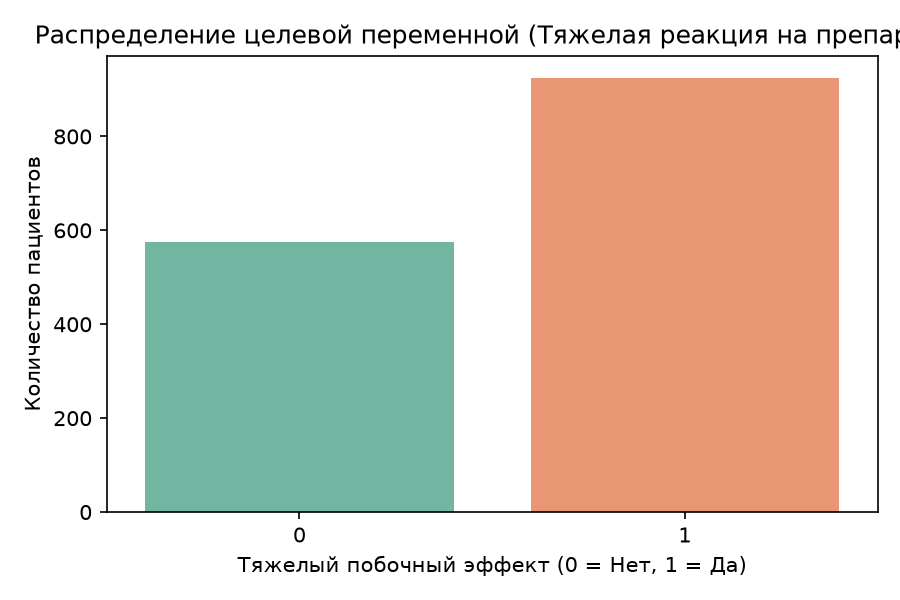
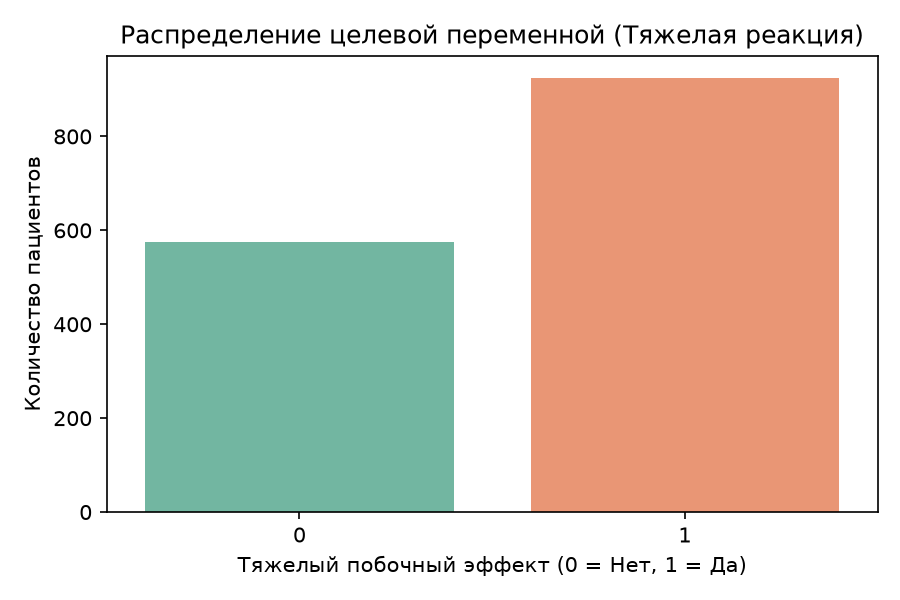
доработка кода

Changed region(s): [[0.0311, 0.03, 1.0, 0.09]]

diff --git a/Project_code_Python.py b/Project_code_Python.py
@@ -3,37 +3,43 @@ import pandas as pd
 import numpy as np
 import matplotlib.pyplot as plt
 import seaborn as sns
-from sklearn.model_selection import train_test_split
-from sklearn.model_selection import GridSearchCV
+from sklearn.model_selection import train_test_split, GridSearchCV
 from sklearn.compose import ColumnTransformer
 from sklearn.pipeline import Pipeline
 from sklearn.impute import SimpleImputer
 from sklearn.preprocessing import StandardScaler, OneHotEncoder
 from sklearn.linear_model import LogisticRegression
 from sklearn.ensemble import RandomForestClassifier
-from sklearn.metrics import accuracy_score, precision_score, recall_score, f1_score, roc_auc_score, confusion_matrix, classification_report
+from sklearn.metrics import accuracy_score, precision_score, recall_score, f1_score, roc_auc_score, confusion_matrix
+from xgboost import XGBClassifier
 
-# 1. Загрузка данных
+# === ЭТАП 1: ЗАГРУЗКА И ИССЛЕДОВАНИЕ ДАННЫХ (EDA) ===
+print("=== Этап 1: Загрузка и исследование данных ===")
 current_dir = os.path.dirname(os.path.abspath('__file__'))
 path_to_file = os.path.join(current_dir, 'adverse_drug_reactions.csv')
-print("=== Этап 2: Загрузка и исследование данных (EDA) ===")
+
+# Проверка наличия файла (для локального запуска)
+if not os.path.exists(path_to_file):
+    raise FileNotFoundError(f"Файл {path_to_file} не найден. Пожалуйста, поместите его в рабочую директорию.")
+
 df = pd.read_csv(path_to_file)
 print(f"Размерность датасета: {df.shape}")
 print("\nИнформация о пропусках в данных:")
 print(df.isnull().sum())
 
-# Быстрая визуализация и сохранение графиков для презентации
+# Визуализация 1: Распределение целевой переменной
 plt.figure(figsize=(6, 4))
-sns.countplot(x='severe_adr', data=df, palette='Set2')
-plt.title('Распределение целевой переменной (Тяжелая реакция на препарат)')
+sns.countplot(x='severe_adr', data=df, palette='Set2', hue='severe_adr', legend=False)
+plt.title('Распределение целевой переменной (Тяжелая реакция)')
 plt.xlabel('Тяжелый побочный эффект (0 = Нет, 1 = Да)')
 plt.ylabel('Количество пациентов')
 plt.tight_layout()
 plt.savefig('target_distribution.png', dpi=150)
 plt.show()
 
+# Визуализация 2: Влияние полипрагмазии
 plt.figure(figsize=(8, 5))
-sns.boxplot(x='severe_adr', y='polypharmacy_count', data=df, palette='Set3')
+sns.boxplot(x='severe_adr', y='polypharmacy_count', data=df, palette='Set3', hue='severe_adr', legend=False)
 plt.title('Влияние полипрагмазии на тяжесть побочных эффектов')
 plt.xlabel('Тяжелый побочный эффект')
 plt.ylabel('Количество одновременно принимаемых лекарств')
@@ -41,27 +47,26 @@ plt.tight_layout()
 plt.savefig('polypharmacy_impact.png', dpi=150)
 plt.show()
 
-# 2. Выделение признаков и целевой переменной
+# === ЭТАП 2: РАЗДЕЛЕНИЕ ДАННЫХ И ПРЕДОБРАБОТКА ===
 X = df.drop(columns=['patient_id', 'severe_adr'])
 y = df['severe_adr']
 
-# Разделение признаков по типам
 numeric_features = ['age', 'dosage_mg', 'polypharmacy_count']
 categorical_features = ['gender', 'drug_class', 'blood_pressure_status']
 
-# Разделение на обучающую и тестовую выборки (train/test split)
+# Разделение на train/test с сохранением пропорций классов (stratify)
 X_train, X_test, y_train, y_test = train_test_split(X, y, test_size=0.2, random_state=42, stratify=y)
-print(f"Размер обучающей выборки: {X_train.shape[0]}, тестовой: {X_test.shape[0]}")
+print(f"\nРазмер обучающей выборки: {X_train.shape[0]}, тестовой: {X_test.shape[0]}")
 
-# 3. Создание пайплайнов предобработки (Preprocessing Pipelines)
+# Пайплайны трансформации данных
 numeric_transformer = Pipeline(steps=[
-    ('imputer', SimpleImputer(strategy='median')), # Заполнение пропусков медианой
-    ('scaler', StandardScaler())                  # Стандартизация
+    ('imputer', SimpleImputer(strategy='median')), 
+    ('scaler', StandardScaler())                  
 ])
 
 categorical_transformer = Pipeline(steps=[
-    ('imputer', SimpleImputer(strategy='most_frequent')), # Заполнение пропусков модой
-    ('encoder', OneHotEncoder(drop='first', handle_unknown='ignore')) # OHE-кодирование
+    ('imputer', SimpleImputer(strategy='most_frequent')), 
+    ('encoder', OneHotEncoder(drop='first', handle_unknown='ignore')) 
 ])
 
 preprocessor = ColumnTransformer(
@@ -70,74 +75,93 @@ preprocessor = ColumnTransformer(
         ('cat', categorical_transformer, categorical_features)
     ])
 
-# 4. Этап 3: Обучение моделей
+# === ЭТАП 3: ОБУЧЕНИЕ МОДЕЛЕЙ И ПОДБОР ПАРАМЕТРОВ ===
+print("\n=== Этап 3: Ообучение моделей ===")
 
 # Модель 1: Логистическая регрессия (Baseline)
+print("Обучение Logistic Regression...")
 log_reg_pipeline = Pipeline(steps=[
     ('preprocessor', preprocessor),
     ('classifier', LogisticRegression(random_state=42, max_iter=1000))
 ])
 log_reg_pipeline.fit(X_train, y_train)
-y_pred_lr = log_reg_pipeline.predict(X_test)
-y_prob_lr = log_reg_pipeline.predict_proba(X_test)[:, 1]
 
-# Модель 2: Случайный лес (Random Forest) с подбором гиперпараметров через GridSearch
+# Модель 2: Случайный лес (Random Forest) + GridSearchCV
+print("Запуск кросс-валидации для Random Forest...")
 rf_pipeline = Pipeline(steps=[
     ('preprocessor', preprocessor),
     ('classifier', RandomForestClassifier(random_state=42))
 ])
-
 param_grid_rf = {
     'classifier__n_estimators': [50, 100, 200],
     'classifier__max_depth': [5, 10, None],
     'classifier__min_samples_split': [2, 5]
 }
-
-print("Запуск кросс-валидации и оптимизации гиперпараметров для Random Forest...")
 grid_search_rf = GridSearchCV(rf_pipeline, param_grid_rf, cv=5, scoring='f1', n_jobs=-1)
 grid_search_rf.fit(X_train, y_train)
 best_rf_model = grid_search_rf.best_estimator_
 
-y_pred_rf = best_rf_model.predict(X_test)
-y_prob_rf = best_rf_model.predict_proba(X_test)[:, 1]
+# Модель 3: Градиентный бустинг (XGBoost) + GridSearchCV
+print("Запуск кросс-валидации для XGBoost...")
+xgb_pipeline = Pipeline(steps=[
+    ('preprocessor', preprocessor),
+    ('classifier', XGBClassifier(random_state=42, eval_metric='logloss'))
+])
+param_grid_xgb = {
+    'classifier__n_estimators': [50, 100, 200],
+    'classifier__max_depth': [3, 5, 7],
+    'classifier__learning_rate': [0.01, 0.1, 0.2]
+}
+grid_search_xgb = GridSearchCV(xgb_pipeline, param_grid_xgb, cv=5, scoring='f1', n_jobs=-1)
+grid_search_xgb.fit(X_train, y_train)
+best_xgb_model = grid_search_xgb.best_estimator_
 
-print(f"Лучшие параметры Random Forest: {grid_search_rf.best_params_}")
+# === ЭТАП 4: ОЦЕНКА И СРАВНЕНИЕ МОДЕЛЕЙ ===
+print("\n=== Этап 4: Сводная оценка моделей ===")
 
-# 5. Этап 4: Оценка и сравнение моделей
-print("\n=== Этап 4: Оценка и интерпретация ===")
-
-def evaluate_model(y_true, y_pred, y_prob, model_name):
+def evaluate_model(model, X_ts, y_ts, model_name):
+    y_pred = model.predict(X_ts)
+    y_prob = model.predict_proba(X_ts)[:, 1]
+    
     metrics = {
-        'Accuracy': accuracy_score(y_true, y_pred),
-        'Precision': precision_score(y_true, y_pred),
-        'Recall': recall_score(y_true, y_pred),
-        'F1-Score': f1_score(y_true, y_pred),
-        'ROC-AUC': roc_auc_score(y_true, y_prob)
+        'Accuracy': accuracy_score(y_ts, y_pred),
+        'Precision': precision_score(y_ts, y_pred),
+        'Recall': recall_score(y_ts, y_pred),
+        'F1-Score': f1_score(y_ts, y_pred),
+        'ROC-AUC': roc_auc_score(y_ts, y_prob)
     }
     print(f"\nМетрики для {model_name}:")
     for k, v in metrics.items():
         print(f"  {k}: {v:.4f}")
     return metrics
 
-lr_metrics = evaluate_model(y_test, y_pred_lr, y_prob_lr, "Logistic Regression")
-rf_metrics = evaluate_model(y_test, y_pred_rf, y_prob_rf, "Random Forest (Optimized)")
+lr_metrics = evaluate_model(log_reg_pipeline, X_test, y_test, "Logistic Regression")
+rf_metrics = evaluate_model(best_rf_model, X_test, y_test, "Random Forest (Optimized)")
+xgb_metrics = evaluate_model(best_xgb_model, X_test, y_test, "XGBoost (Optimized)")
 
-# Матрица ошибок лучшей модели (Random Forest)
-plt.figure(figsize=(5, 4))
-cm = confusion_matrix(y_test, y_pred_rf)
-sns.heatmap(cm, annot=True, fmt='d', cmap='Blues', cbar=False,
-            xticklabels=['Нет риска', 'Высокий риск'], yticklabels=['Нет риска', 'Высокий риск'])
-plt.title('Матрица ошибок (Random Forest)')
-plt.ylabel('Фактический класс')
-plt.xlabel('Прогноз модели')
+# Формирование таблицы для построения сводного графика
+metrics_list = []
+for name, m_dict in zip(['Logistic Regression', 'Random Forest', 'XGBoost'], [lr_metrics, rf_metrics, xgb_metrics]):
+    for metric_name, value in m_dict.items():
+        metrics_list.append({'Model': name, 'Metric': metric_name, 'Value': value})
+df_metrics_plot = pd.DataFrame(metrics_list)
+
+# Финальный графический шедевр: сравнение всех трех моделей
+plt.figure(figsize=(11, 6))
+sns.barplot(x='Metric', y='Value', hue='Model', data=df_metrics_plot, palette='coolwarm')
+plt.title('Трехстороннее сравнение метрик качества моделей (LR vs RF vs XGBoost)', fontsize=14, fontweight='bold')
+plt.ylim(0.5, 1.02)
+plt.ylabel('Значение метрики', fontsize=12)
+plt.xlabel('Метрика эффективности', fontsize=12)
+plt.grid(axis='y', linestyle='--', alpha=0.7)
+plt.legend(loc='lower right', shadow=True, fontsize=10)
 plt.tight_layout()
-plt.savefig('confusion_matrix_best.png', dpi=150)
+plt.savefig('models_comparison.png', dpi=150)
 plt.show()
 
-# Извлечение важности признаков из Random Forest
-classifier_step = best_rf_model.named_steps['classifier']
-encoder_step = best_rf_model.named_steps['preprocessor'].named_transformers_['cat'].named_steps['encoder']
-
+# Визуализация важности признаков для лучшей модели (XGBoost)
+classifier_step = best_xgb_model.named_steps['classifier']
+encoder_step = best_xgb_model.named_steps['preprocessor'].named_transformers_['cat'].named_steps['encoder']
 cat_features_transformed = encoder_step.get_feature_names_out(categorical_features).tolist()
 all_features = numeric_features + cat_features_transformed
 importances = classifier_step.feature_importances_
@@ -145,34 +169,12 @@ importances = classifier_step.feature_importances_
 feature_imp_df = pd.DataFrame({'Feature': all_features, 'Importance': importances}).sort_values(by='Importance', ascending=False)
 
 plt.figure(figsize=(10, 5))
-sns.barplot(x='Importance', y='Feature', data=feature_imp_df.head(7), palette='viridis')
-plt.title('Топ-7 наиболее значимых признаков (Feature Importance)')
-plt.xlabel('Значимость признака')
-plt.ylabel('Признак')
+sns.barplot(x='Importance', y='Feature', data=feature_imp_df.head(7), hue='Feature', legend=False, palette='viridis')
+plt.title('Топ-7 наиболее значимых признаков (XGBoost Feature Importance)', fontsize=12, fontweight='bold')
+plt.xlabel('Относительная значимость')
+plt.ylabel('Признаки')
 plt.tight_layout()
-plt.savefig('feature_importance.png', dpi=150)
+plt.savefig('feature_importance_xgb.png', dpi=150)
 plt.show()
 
-print("\nВажность признаков для бизнеса:")
-print(feature_imp_df.to_string(index=False))
-
-# 5.2. Визуализация оценки моделей
-plt.figure(figsize=(8, 6))
-sns.barplot(x=list(lr_metrics.keys()), y=[lr_metrics[k] for k in lr_metrics], palette='Blues')
-plt.title('Метрики для Логистической Регрессии')
-plt.xlabel('Метрика')
-plt.ylabel('Значение')
-plt.tight_layout()
-plt.savefig('log_reg_metrics.png', dpi=150)
-plt.show()
-
-plt.figure(figsize=(8, 6))
-sns.barplot(x=list(rf_metrics.keys()), y=[rf_metrics[k] for k in rf_metrics], palette='Greens')
-plt.title('Метрики для Случайного Леса (Оптимизированная)')
-plt.xlabel('Метрика')
-plt.ylabel('Значение')
-plt.tight_layout()
-plt.savefig('rf_metrics.png', dpi=150)
-plt.show()
-
-print("\nВсе графики успешно сохранены!")
+print("\n[УСПЕХ] Все графики успешно перестроены и сохранены как 'target_distribution.png', 'polypharmacy_impact.png', 'models_comparison.png' и 'feature_importance_xgb.png'!")
